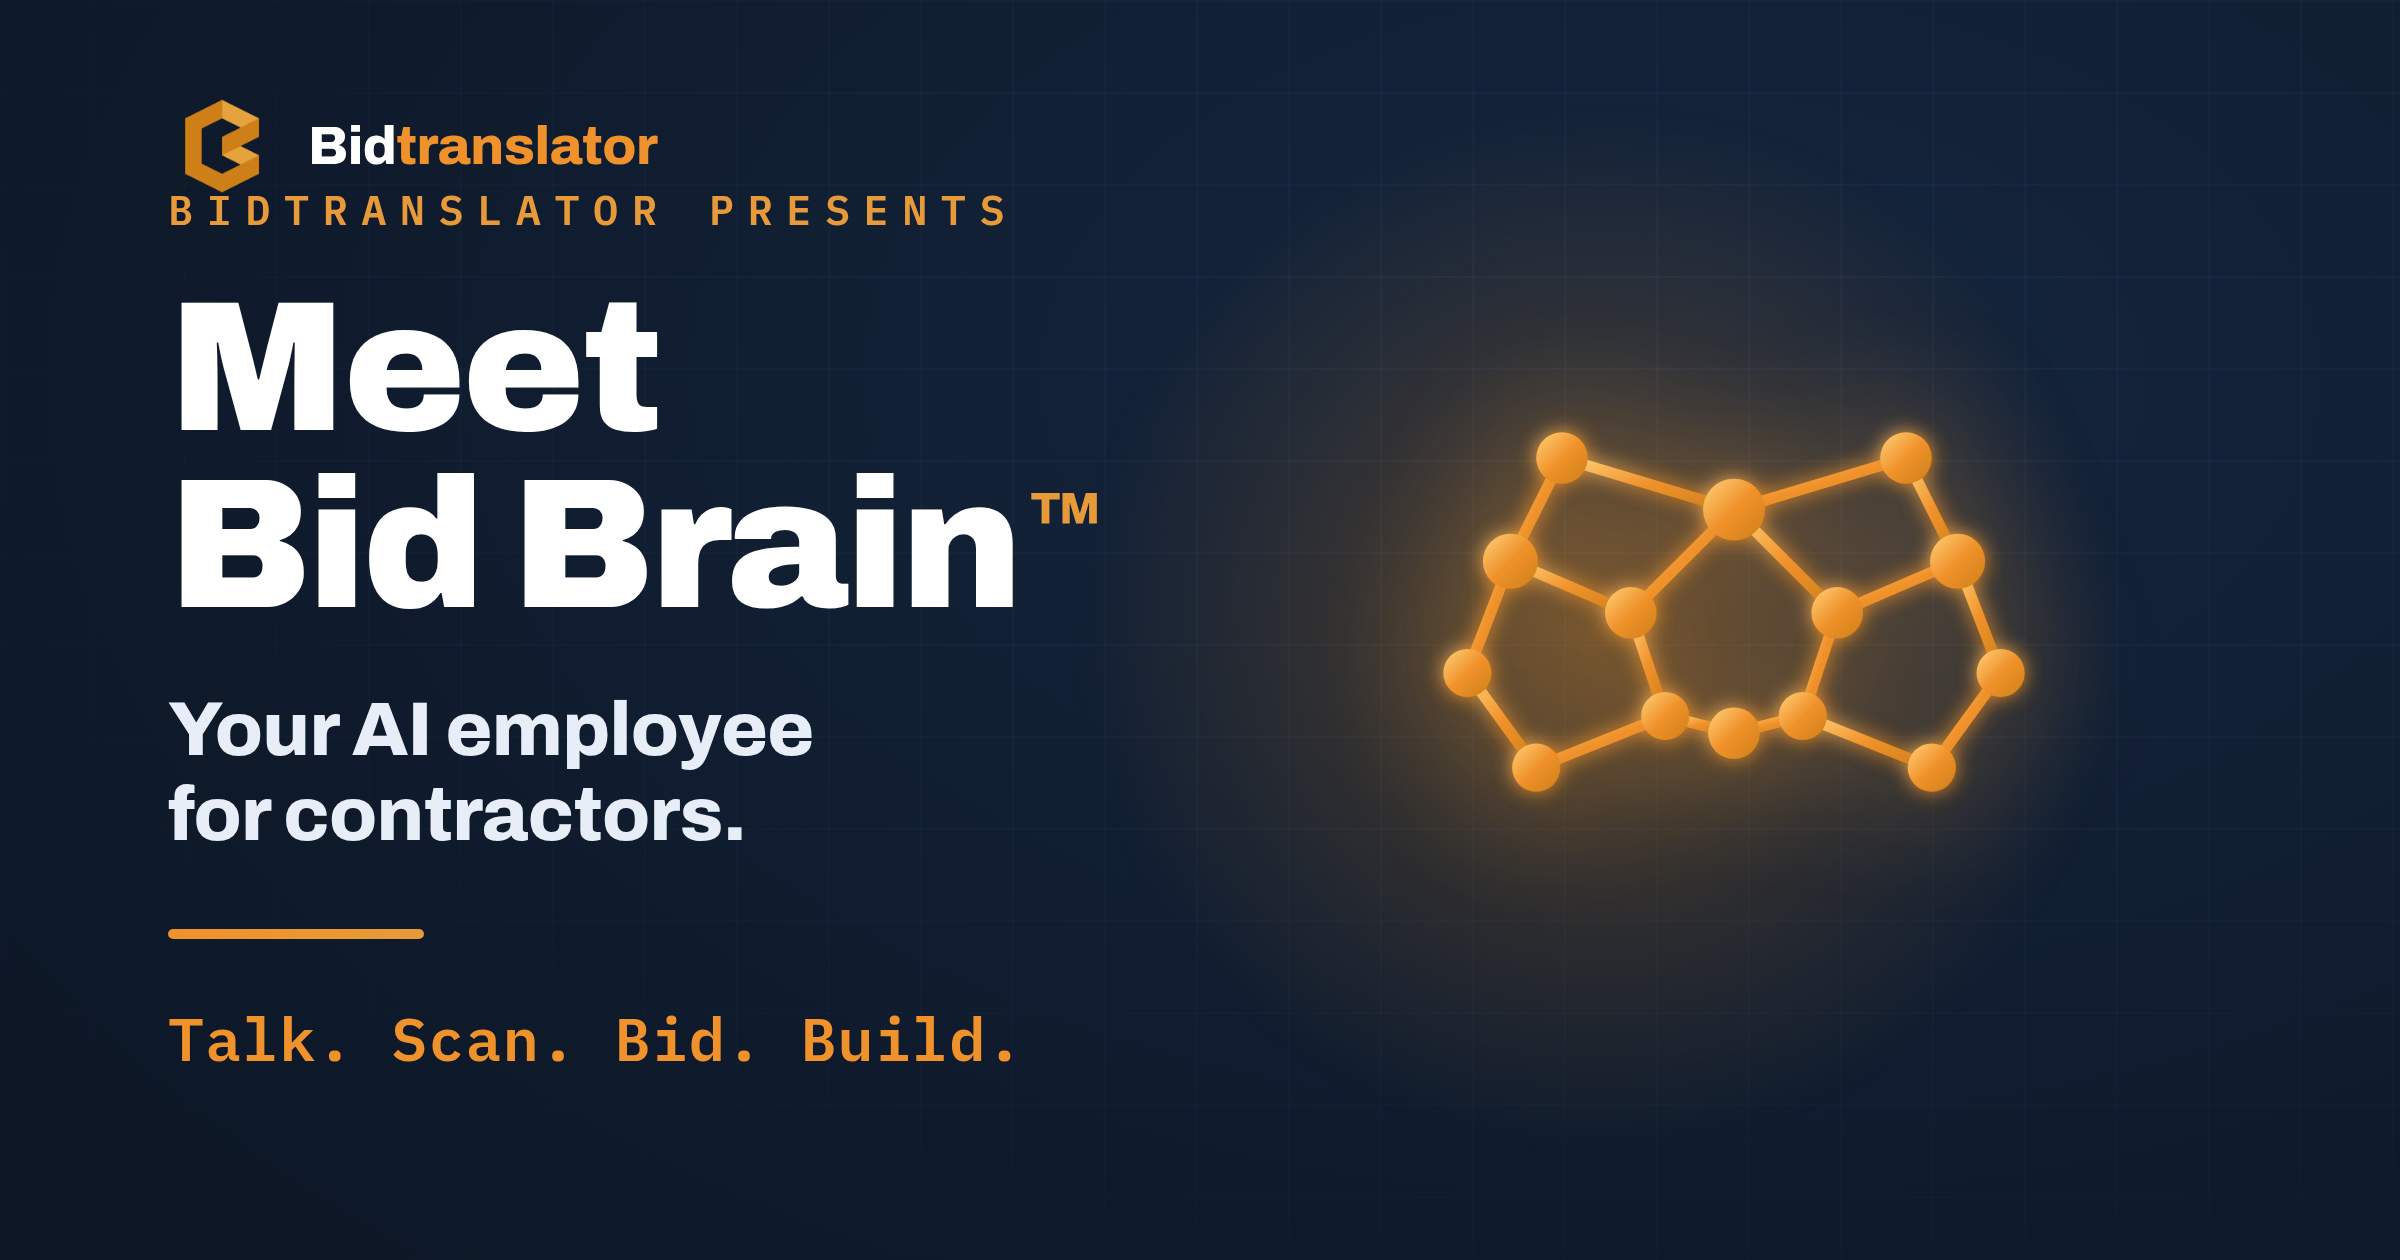
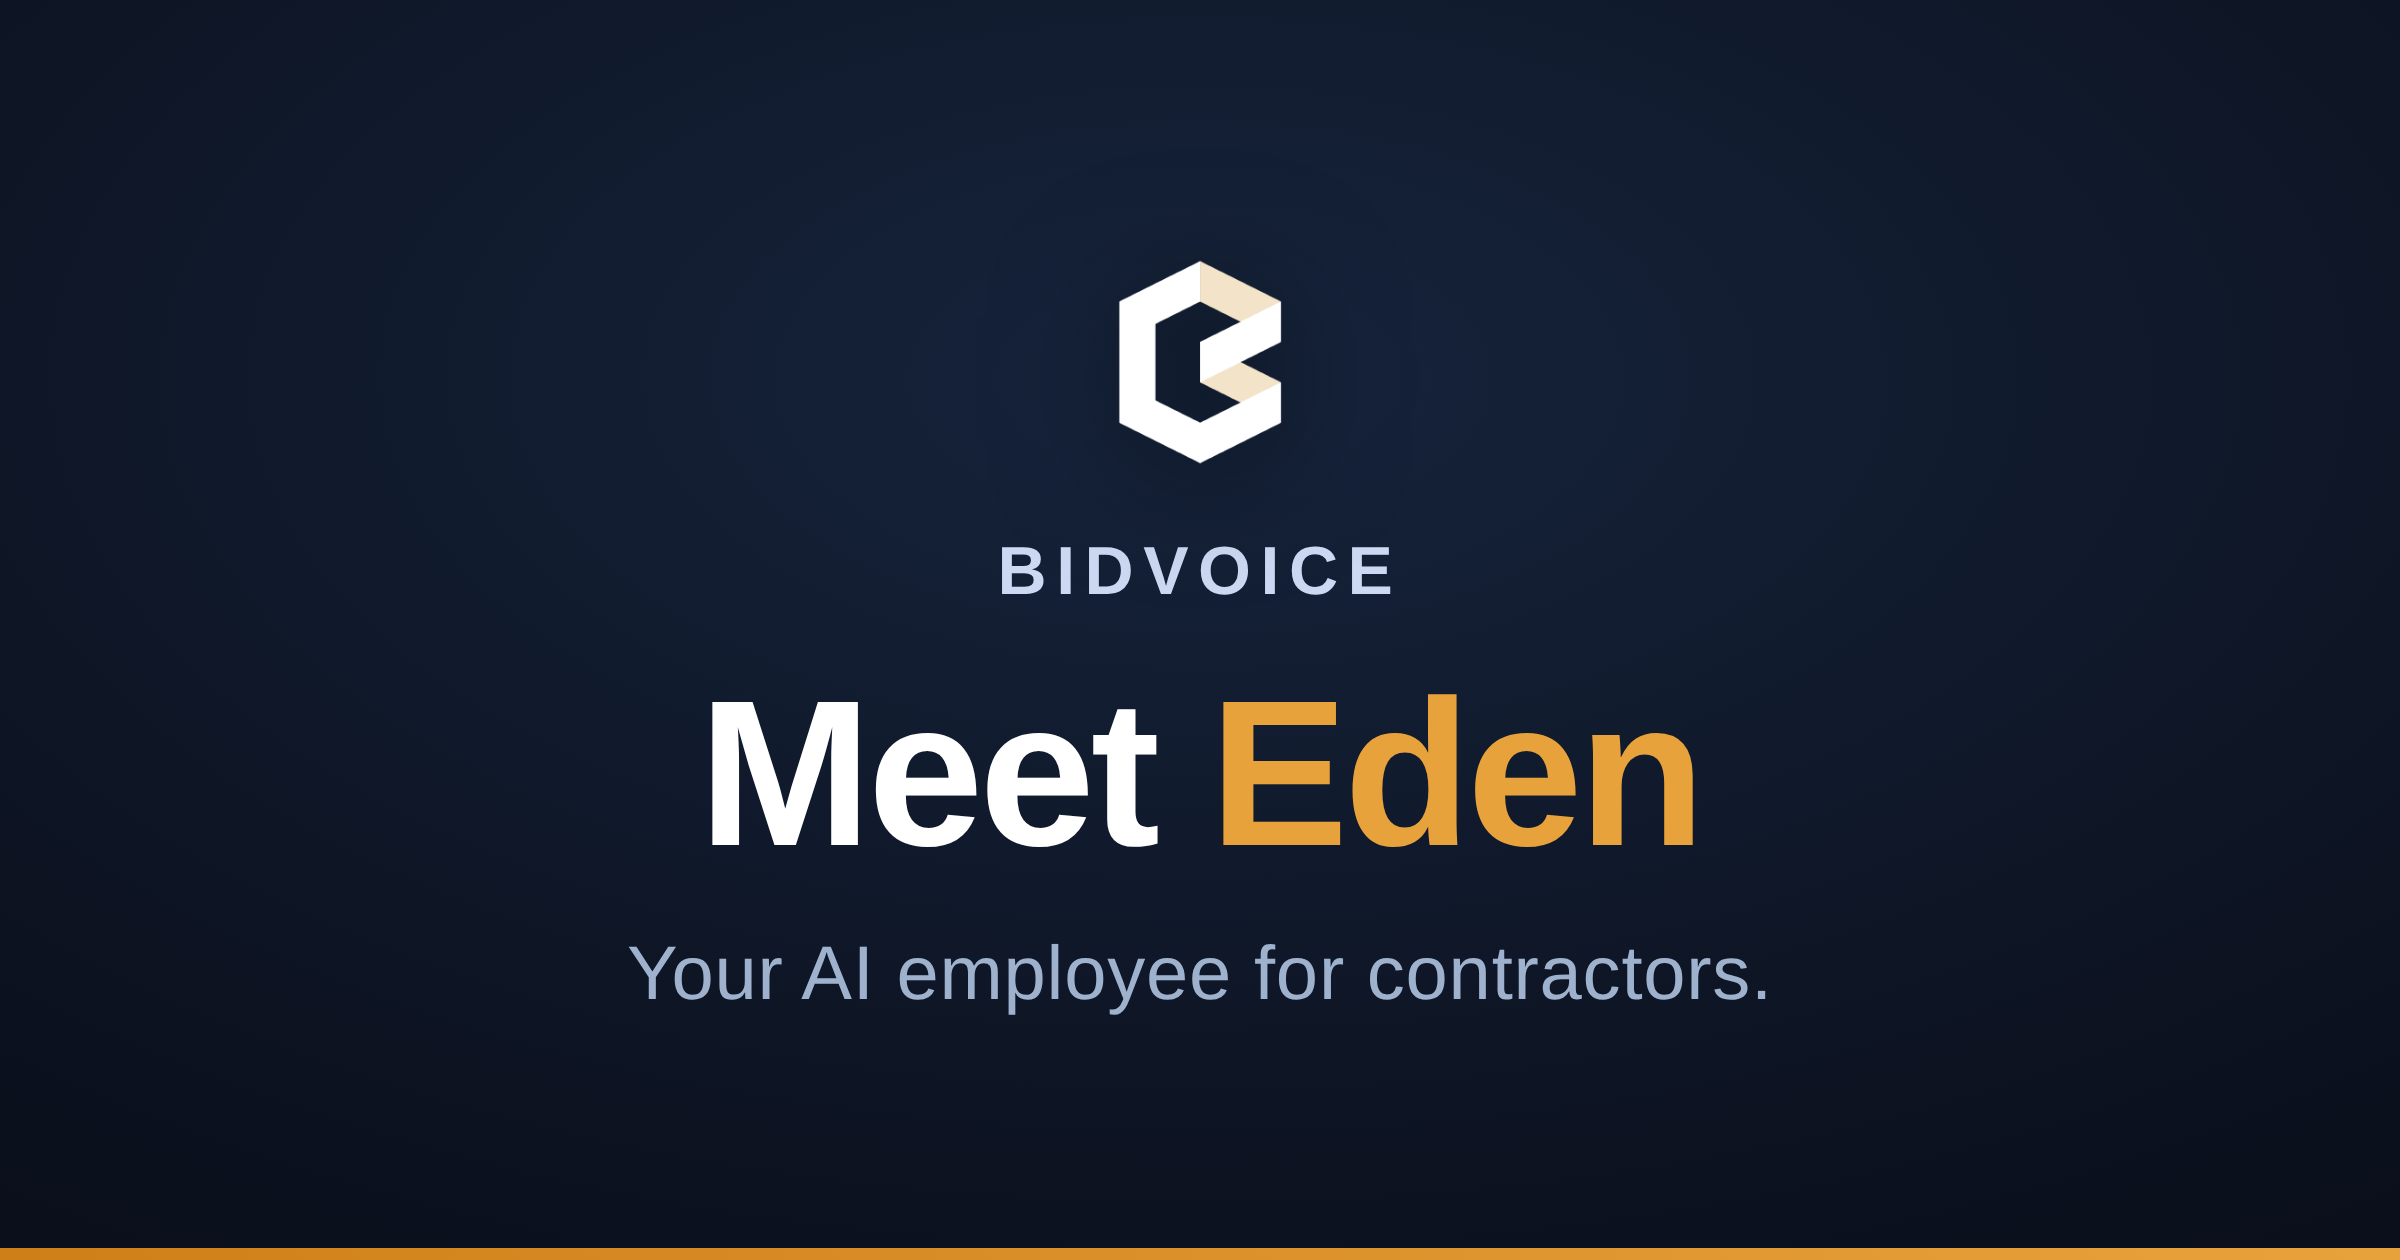
Rebrand polish: "Estimate with Eden" card + BidVoice/Eden OG image
- In-app estimator card: "AI Estimator" -> "Estimate with <name>" (renders
  "Estimate with Eden"; identity-aware, tracks the active name).
- New social share image matching brief: dark premium background, existing
  white "B" logo (unchanged), BidVoice wordmark, "Meet Eden" (amber Eden),
  "Your AI employee for contractors.", thin amber baseline — clean, no
  clutter. Installed as public/og.png (1200x630) + [email redacted] (2400x1260);
  reproducible source docs/og-source.html; spec docs/og-image-spec.md.
- Bumped og image cache-bust ?v=2 -> ?v=3 so social platforms re-scrape.

Claude-Session: https://claude.ai/code/session_013BqLucgDpA8qPKGq5q1jpm

diff --git a/docs/og-source.html b/docs/og-source.html
@@ -1,0 +1,19 @@
+<!doctype html><html><head><meta charset="utf8"><style>
+*{margin:0;box-sizing:border-box}
+html,body{width:1200px;height:630px}
+.card{width:1200px;height:630px;display:flex;flex-direction:column;align-items:center;justify-content:center;text-align:center;
+  background:radial-gradient(120% 120% at 50% 30%, #16243c 0%, #0c1220 55%, #05080f 100%);
+  font-family:'Archivo','Segoe UI',Arial,sans-serif;color:#fff;position:relative}
+.card::after{content:"";position:absolute;left:0;right:0;bottom:0;height:6px;background:linear-gradient(90deg,#CF7F18,#E8A23C)}
+.logo{width:118px;height:118px;margin-bottom:26px;filter:drop-shadow(0 8px 30px rgba(0,0,0,.5))}
+.wordmark{font-weight:800;font-size:34px;letter-spacing:.14em;color:#cdd9f2;text-transform:uppercase;margin-bottom:30px}
+.hero{font-weight:900;font-size:104px;line-height:1;letter-spacing:-.02em;margin-bottom:26px}
+.hero .e{color:#E8A23C}
+.tag{font-family:'Segoe UI',Arial,sans-serif;font-weight:500;font-size:38px;color:#9fb2cd;letter-spacing:.01em}
+</style></head><body>
+<div class="card">
[1 lines of base64/hex data omitted]
+  <div class="wordmark">BidVoice</div>
+  <div class="hero">Meet <span class="e">Eden</span></div>
+  <div class="tag">Your AI employee for contractors.</div>
+</div></body></html>

diff --git a/public/index.html b/public/index.html
@@ -27,8 +27,8 @@
 <meta property="og:site_name" content="BidVoice" />
 <meta property="og:title" content="Meet Eden — your AI employee for contractors." />
 <meta property="og:description" content="BidVoice is the AI Construction Operating System built for contractors. Meet Eden, your AI employee who helps estimate jobs, manage projects, organize customers, and keep your business moving." />
-<meta property="og:image" content="https://bidvoice.ai/og.png?v=2" />
-<meta property="og:image:secure_url" content="https://bidvoice.ai/og.png?v=2" />
+<meta property="og:image" content="https://bidvoice.ai/og.png?v=3" />
+<meta property="og:image:secure_url" content="https://bidvoice.ai/og.png?v=3" />
 <meta property="og:image:type" content="image/png" />
 <meta property="og:image:width" content="1200" />
 <meta property="og:image:height" content="630" />
@@ -38,7 +38,7 @@
 <meta name="twitter:card" content="summary_large_image" />
 <meta name="twitter:title" content="Meet Eden — your AI employee for contractors." />
 <meta name="twitter:description" content="BidVoice is the AI Construction Operating System built for contractors. Meet Eden, your AI employee who helps estimate jobs, manage projects, organize customers, and keep your business moving." />
-<meta name="twitter:image" content="https://bidvoice.ai/og.png?v=2" />
+<meta name="twitter:image" content="https://bidvoice.ai/og.png?v=3" />
 <meta name="twitter:image:alt" content="Meet Eden — your AI employee for contractors." />
 <link rel="preconnect" href="https://fonts.googleapis.com" />
 <link rel="preconnect" href="https://fonts.gstatic.com" crossorigin />
@@ -4205,7 +4205,7 @@ function questionsCard(){
       <div class="est-q-act"><button class="btn sm" onclick="micTap()">${icon('mic',15)} Answer</button><button class="btn ghost sm" onclick="capNotSure()">I'm not sure</button></div></div>`;
   }
   const tts=('speechSynthesis' in window) ? `<button class="est-tts" onclick="toggleTts()" title="${TTS_ON?'Mute the estimator':'Let the estimator speak'}">${TTS_ON?icon('speaker',16):icon('mute',16)}</button>` : '';
-  return `<div class="intake est-card"><div class="intake-h">${icon('activity',13)} AI Estimator${intakeRunning?' <span class="intake-load">thinking…</span>':''}${tts}</div>${clHTML}${action}</div>`;
+  return `<div class="intake est-card"><div class="intake-h">${icon('activity',13)} ${esc('Estimate with '+AI.name)}${intakeRunning?' <span class="intake-load">thinking…</span>':''}${tts}</div>${clHTML}${action}</div>`;
 }
 // Auto project name from client + work (or address, or scope) — no manual entry.
 function autoProjectName(){

diff --git a/docs/og-image-spec.md b/docs/og-image-spec.md
@@ -1,0 +1,37 @@
+# OG / social share image spec — `og.png`
+
+*The link-preview image used across social/messaging. A candidate matching this spec is already
+installed at `public/og.png` (1200×630) and `public/[email redacted]` (2400×1260); reproducible source is
+`docs/og-source.html`. Keep it clean — no extra graphics, no logo redesign.*
+
+## Canvas
+- **1200 × 630** (the standard OG ratio). Export a **2×** (2400 × 1260) as `[email redacted]`.
+- Safe zone: keep all content within ~90px of every edge (some platforms crop).
+
+## Layout (centered, top-to-bottom)
+1. **The existing "B" logo** — white version (`brand-white.png`), ~118px, centered near upper-middle.
+   *Do not redesign or recolor the logo.*
+2. **BidVoice** — the platform wordmark. Uppercase, letter-spaced (~0.14em), ~34px, muted light
+   (`#CDD9F2`).
+3. **Meet Eden** — the hero line. Extra-bold, ~104px, tight tracking. "Meet" in white, **"Eden" in
+   amber `#E8A23C`**.
+4. **Your AI employee for contractors.** — tagline, ~38px, medium weight, muted blue-grey (`#9FB2CD`).
+5. A thin **amber baseline** (6px) at the very bottom: gradient `#CF7F18 → #E8A23C`.
+
+## Style
+- **Background:** dark premium radial — `radial-gradient(120% 120% at 50% 30%, #16243C, #0C1220 55%, #05080F 100%)`.
+- **Type:** Archivo (800/900 for wordmark + hero) is the brand font; IBM Plex Sans / a clean sans for
+  the tagline. *(The installed candidate uses a system bold-sans fallback because the headless
+  renderer lacked the web fonts — swap to Archivo for the final asset if you want pixel-perfect brand
+  type.)*
+- **Contrast:** white/amber on near-black — high contrast, legible as a small mobile thumbnail.
+- **No clutter:** no screenshots, no orb, no extra icons or badges. Logo + three lines + the amber rule.
+
+## Brand lock (do not drift)
+- **BidVoice** = the platform. **Eden** = the AI employee. **Tagline** = *Your AI employee for
+  contractors.* The existing **B** logo stays exactly as-is.
+
+## Wiring
+- Referenced from `<meta property="og:image">` / `twitter:image` as `https://bidvoice.ai/og.png?v=3`.
+- Bump the `?v=` query when the image changes so Facebook/LinkedIn/iMessage re-scrape it (they cache
+  aggressively by URL). Re-scrape via the platform debuggers after deploy.